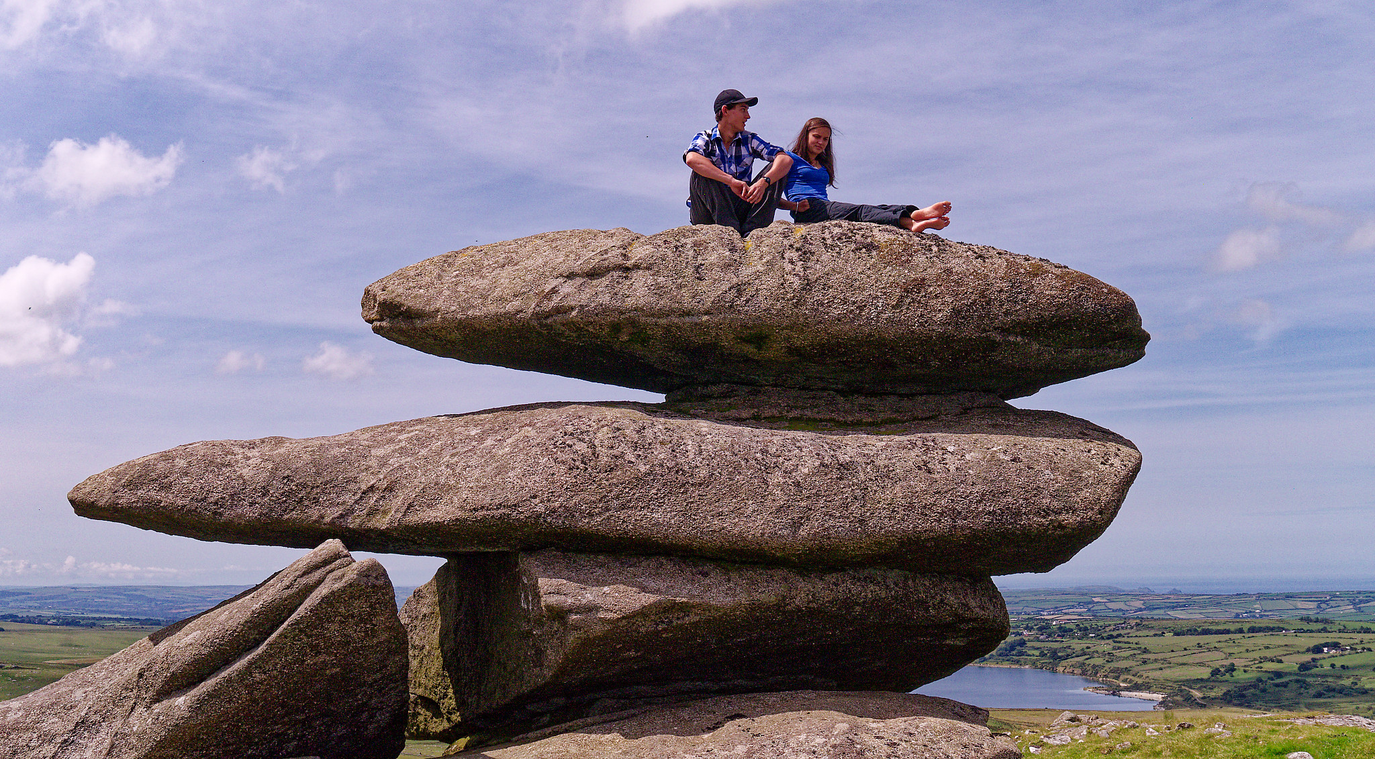
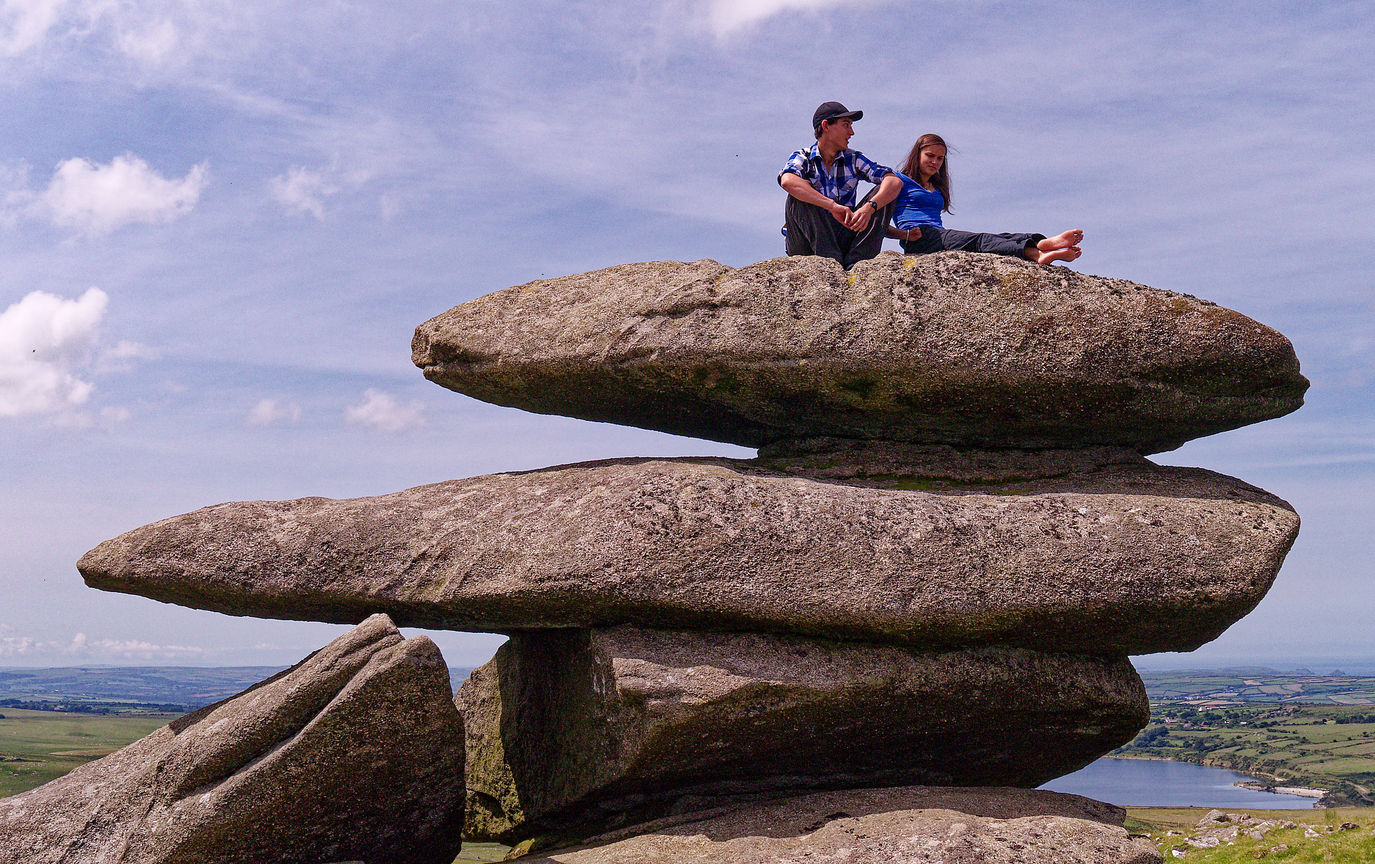
photo ed

diff --git a/src/routes/albums/2012UK/+page.svelte b/src/routes/albums/2012UK/+page.svelte
@@ -18,8 +18,8 @@
 	import c07 from '../../../lib/images/2012UK/2012-07-18-130125.jpg?enhanced';
 	import bw08 from '../../../lib/images/2012UK/2012-07-19-061746_Nik.jpg?enhanced';
 	import c08 from '../../../lib/images/2012UK/2012-07-19-061746.jpg?enhanced';
-	// import bw09 from '../../../lib/images/2012UK/2012-07-21-053309_Nik.jpg?enhanced';
-	// import c09 from '../../../lib/images/2012UK/2012-07-21-053309.jpg?enhanced';
+	import bw09 from '../../../lib/images/2012UK/2012-07-21-054951_Nik.jpg?enhanced';
+	import c09 from '../../../lib/images/2012UK/2012-07-21-054951.jpg?enhanced';
 
 	let hIndex = $state(0);
 	let vIndex = $state(0);
@@ -54,13 +54,13 @@
 			},
 			{ image: c08, caption: ' ' }
 		],
-		// [
-		// 	{
-		// 		image: bw09,
-		// 		caption: 'Exmoor, Devon. August, 2012'
-		// 	},
-		// 	{ image: c09, caption: ' ' }
-		// ],
+		[
+			{
+				image: bw09,
+				caption: 'Exmoor, Devon. August, 2012'
+			},
+			{ image: c09, caption: ' ' }
+		],
 		[
 			{
 				image: bw01,

diff --git a/src/lib/components/AlbumSlider.svelte b/src/lib/components/AlbumSlider.svelte
@@ -41,13 +41,15 @@
 		display: block;
 	}
 	.caption {
-		align-items: end;
+		align-items: center;
 		display: flex;
 		flex-direction: column;
 		font-family: 'captionText';
 		height: 2em;
-		justify-content: center;
-		padding-top: 1em;
+		justify-content: start;
+		margin-top: 0.5em;
+		// padding-top: 1em;
 		text-align: center;
+		// border: 1px solid black;
 	}
 </style>
